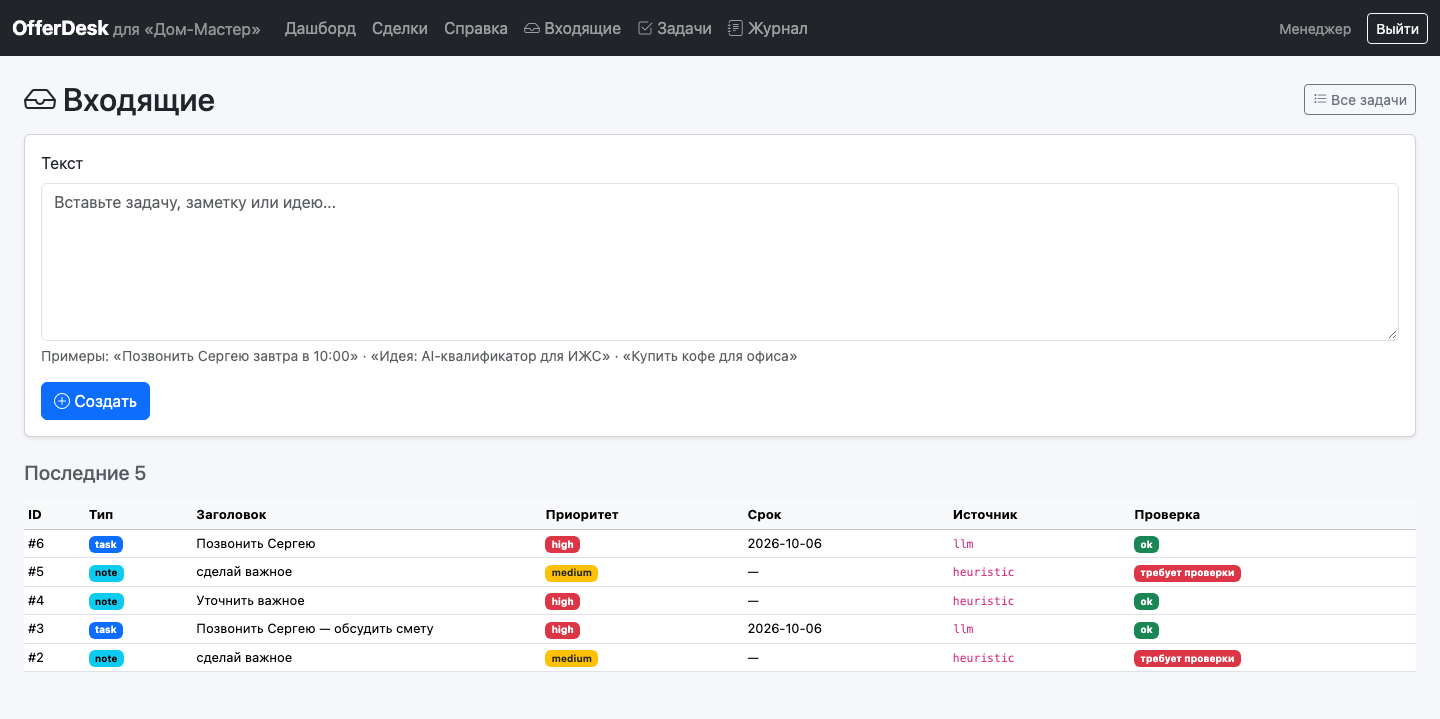
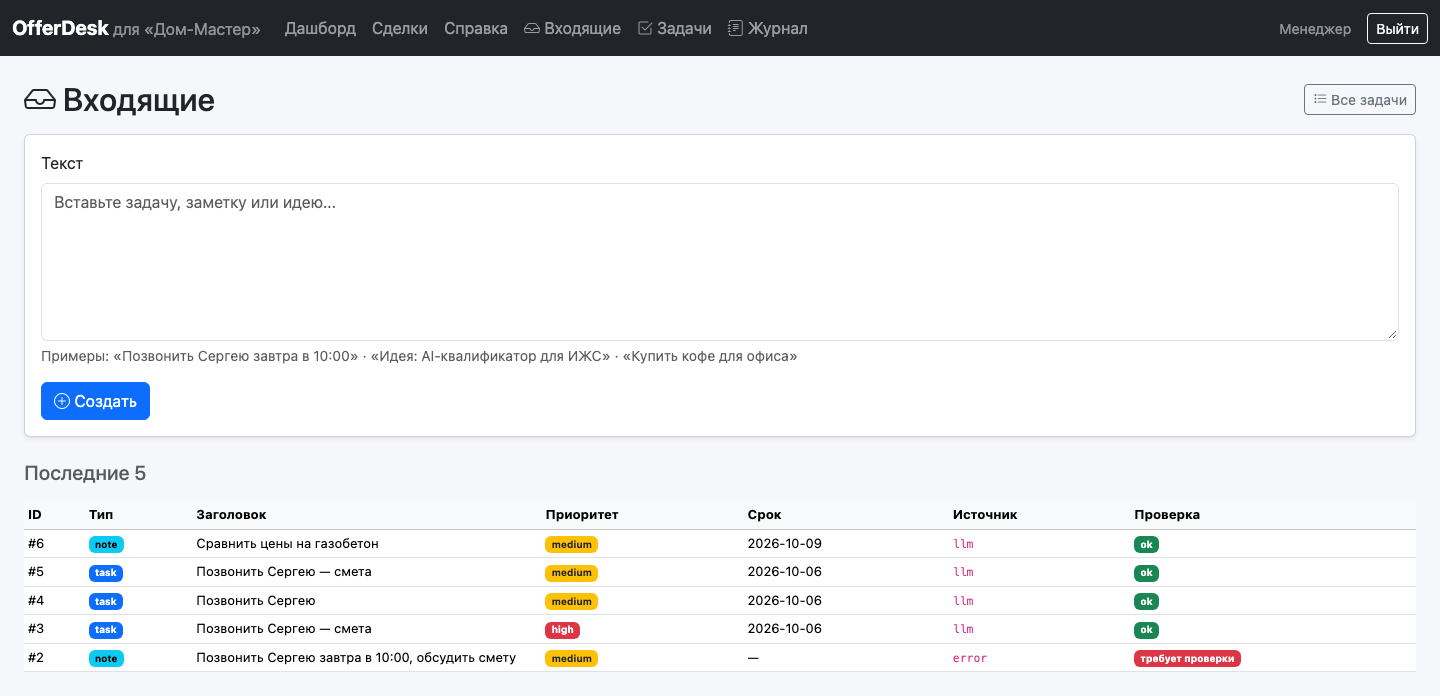
docs: продовые скриншоты с LLM, ссылка на прод
LLM работает в проде BlueTerbium через NL-прокси 5.129.213.88:8888.
source=llm, confidence 0.9+, etalon_score 86%+.

diff --git a/docs/README_TASKS.md b/docs/README_TASKS.md
@@ -130,3 +130,13 @@ cat reports/item_tests.md
 - Схема: Pydantic (`ItemExtraction`).
 - Fallback: regex/heuristic при недоступности LLM.
 - UI: Bootstrap 5.3.3 + Bootstrap Icons.
+
+## Прод
+
+**URL:** http://194.67.103.144:5001
+
+- LLM через NL-прокси `5.129.213.88:8888` (tinyproxy)
+- `POST /capture` → `source=llm`, `confidence 0.9+`
+- `POST /ingest` → `source=llm`, `etalon_score 86%+`, лид A
+- Fallback работает при недоступности LLM
+- Инфраструктура: BlueTerbium (194.67.103.144) → NL-прокси → OpenAI
